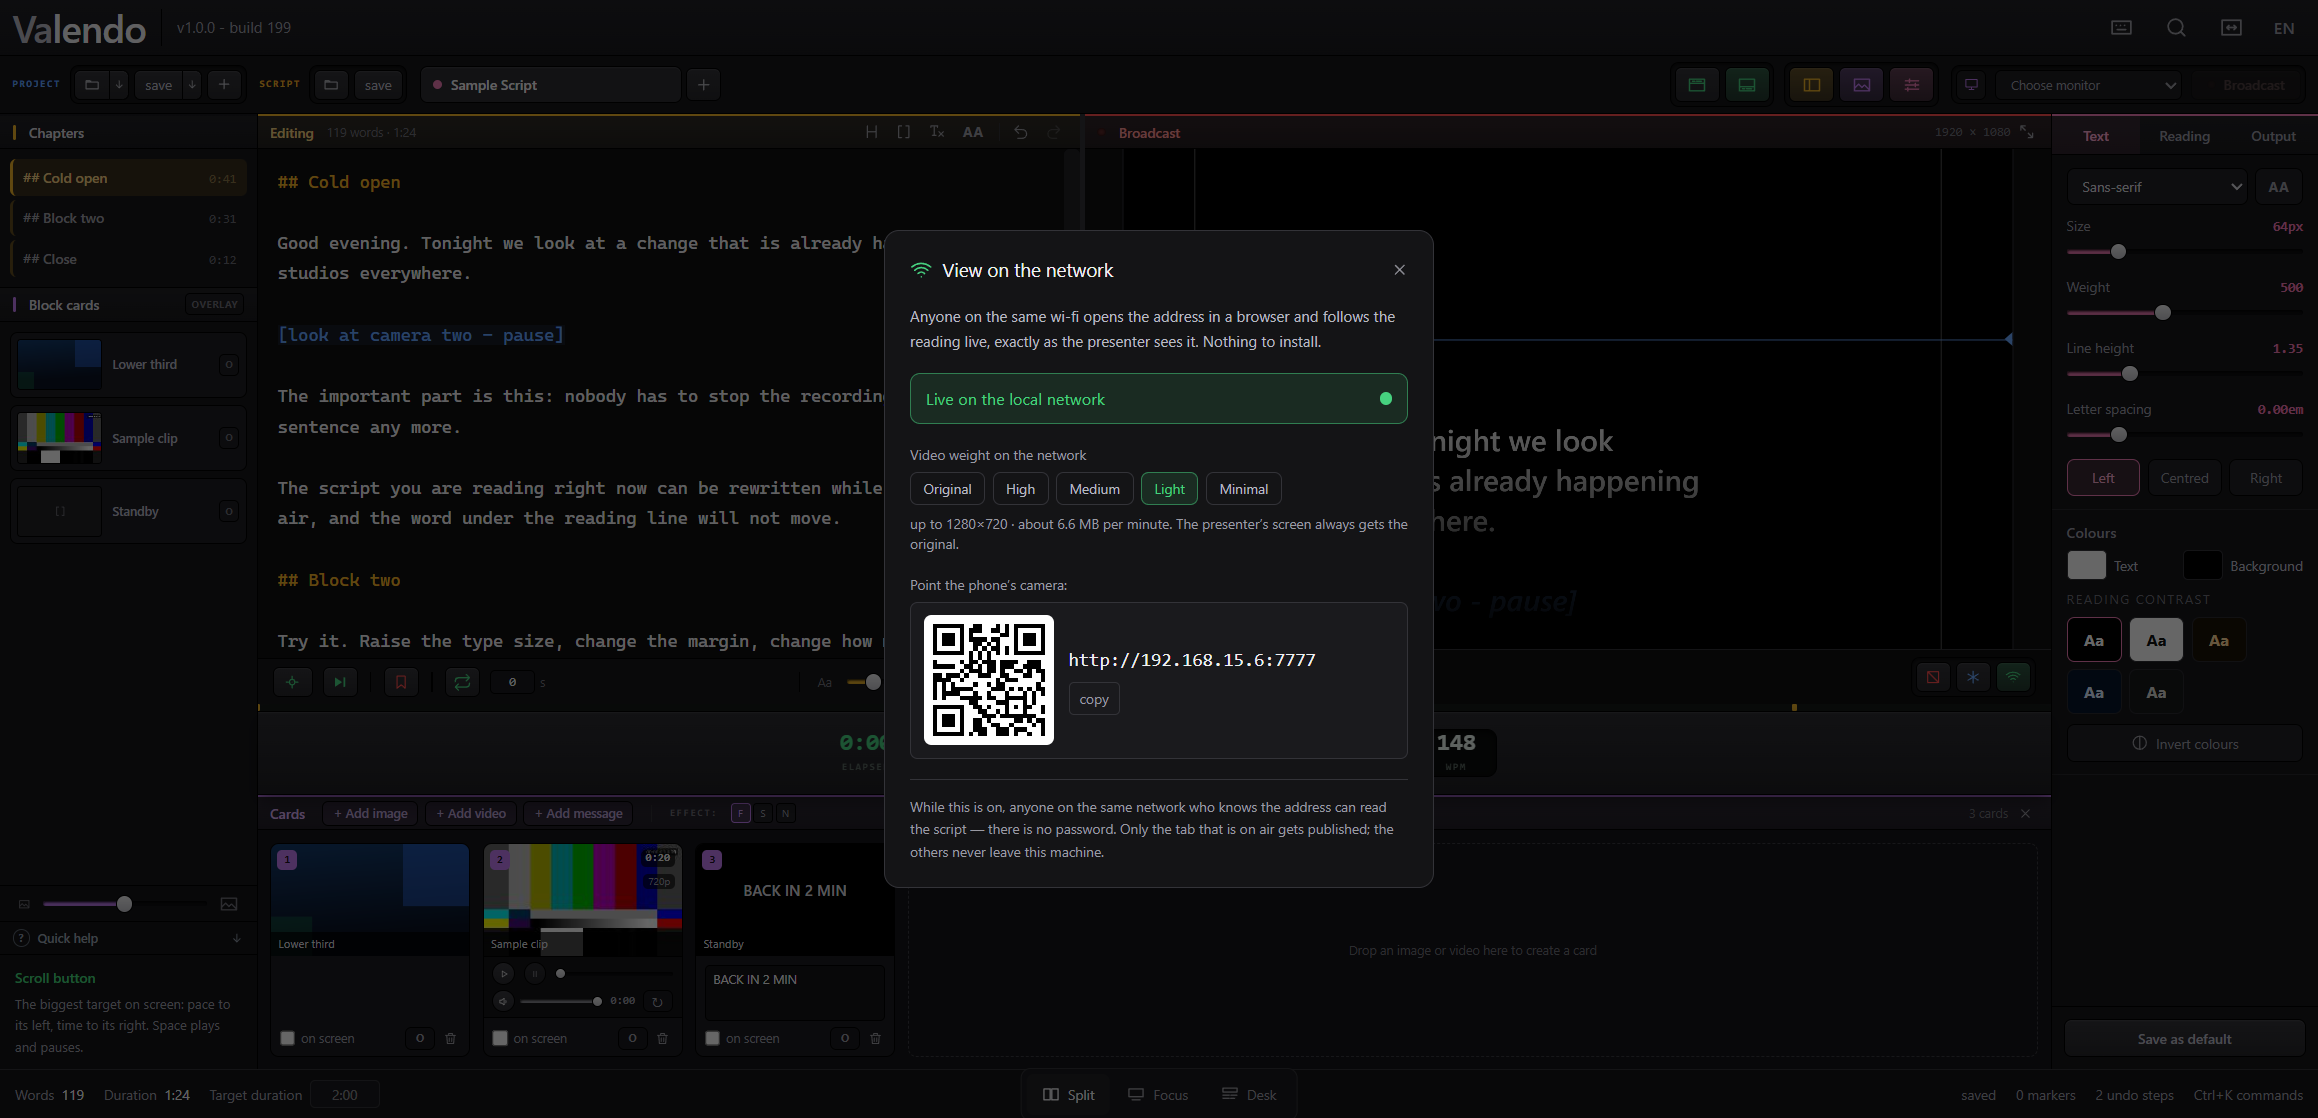
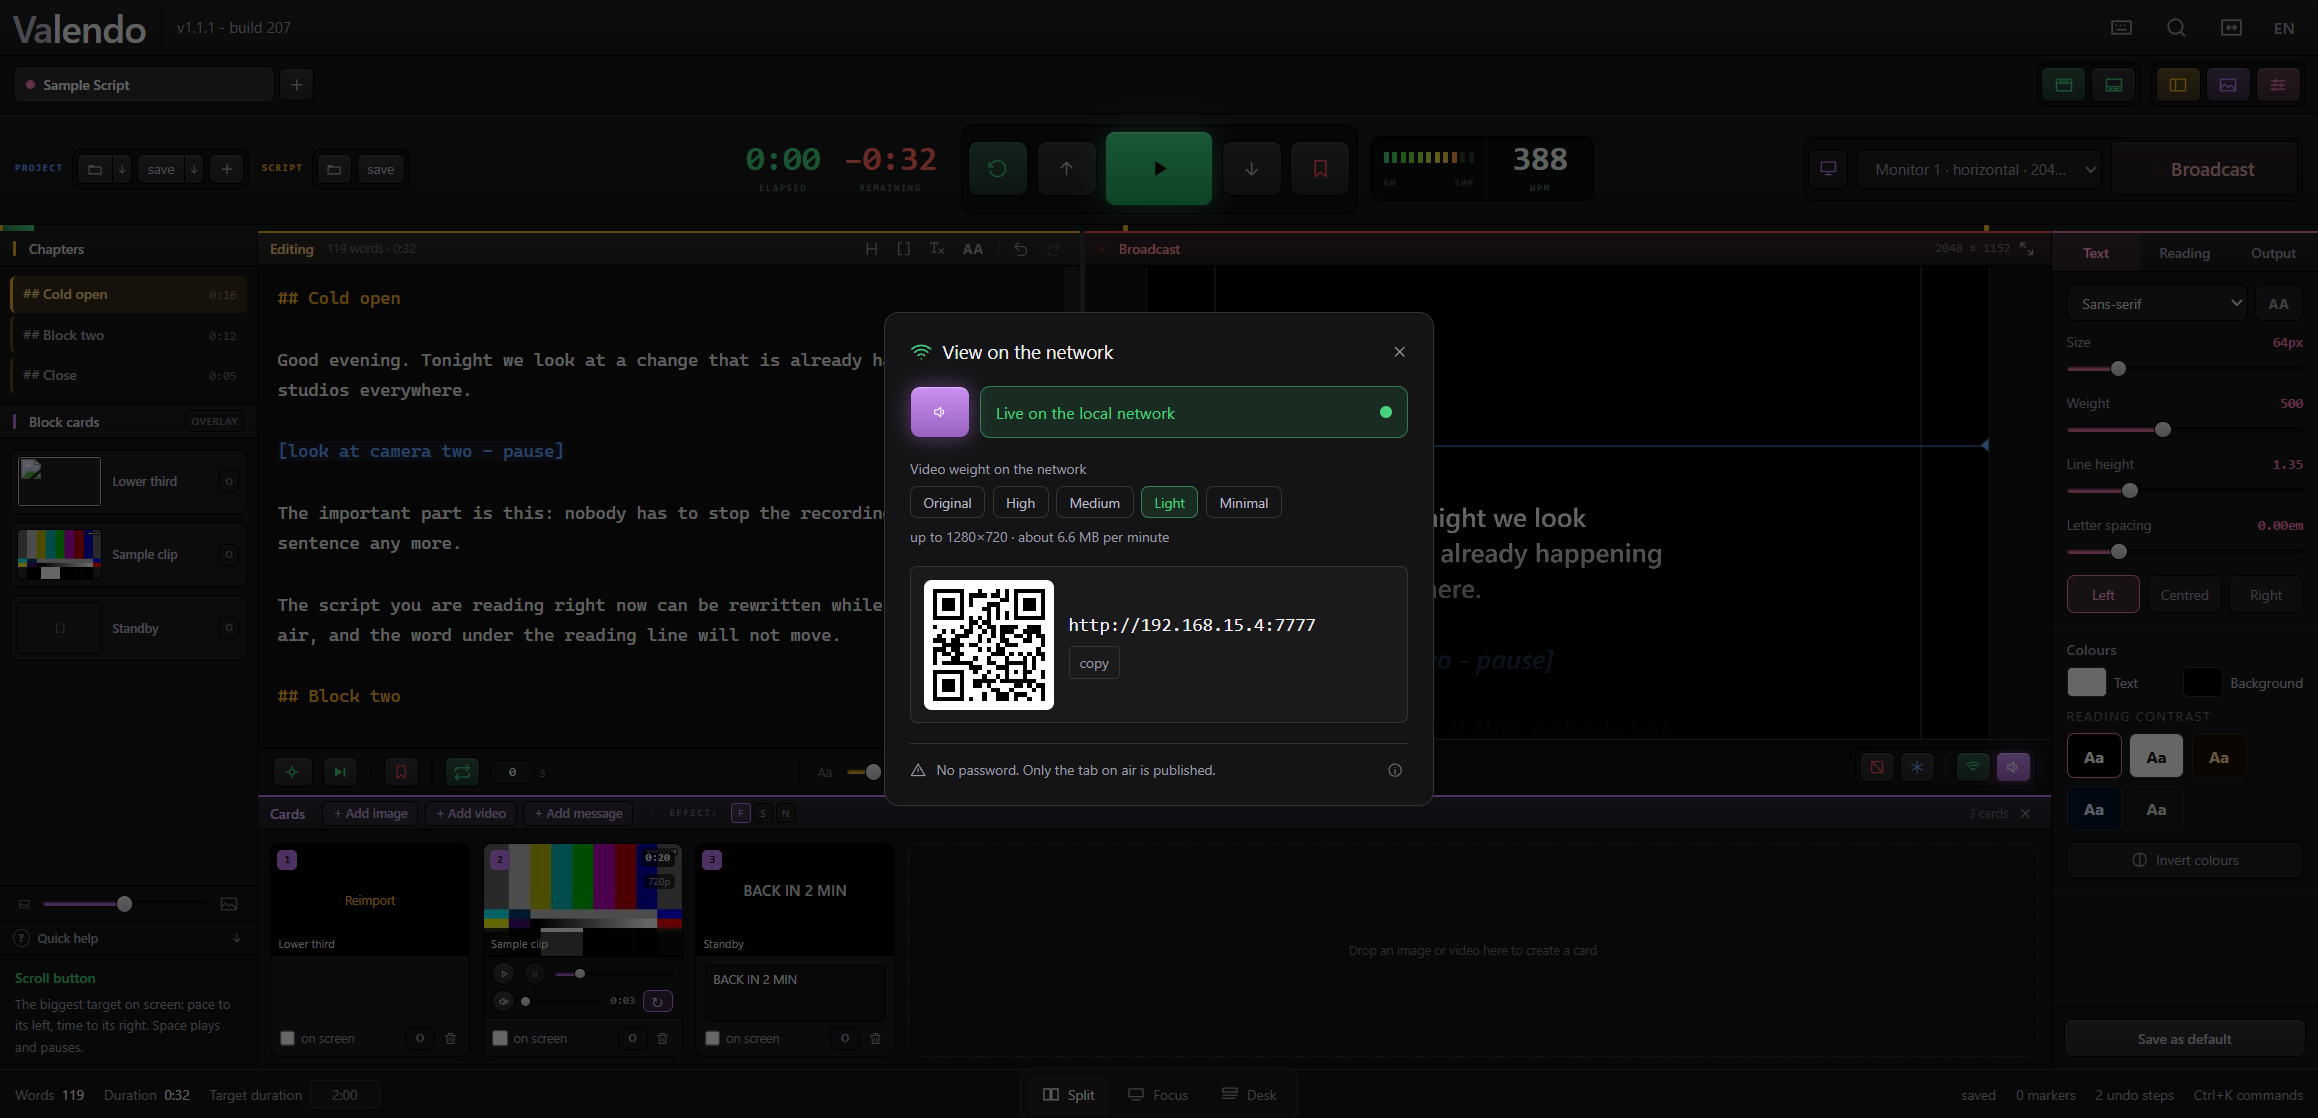
Divisor no poco AR, e a foto da rede refeita
O poco AR guarda duas familias: a esquerda o que age sobre a TELA do
apresentador (apagar, congelar), a direita o que age sobre a REDE. Sem uma
linha entre elas, as quatro teclas se liam como uma fila so de interruptores
sem parentesco.

O divisor usa `--color-line`, e nao `--color-edge`: edge e preto, e preto
sobre a cama escura do poco nao aparece — na primeira tentativa o divisor
existia no DOM e era invisivel na tela.

E a foto da modal no README e no site mostrava uma tela que nao existe mais:
1.270px de altura, com o paragrafo de abertura e o aviso por extenso, e sem a
tecla de audio. Refeita no estado atual.

Feito com Claude Code

diff --git a/src/renderer/src/operator/Toolbar.tsx b/src/renderer/src/operator/Toolbar.tsx
@@ -387,6 +387,13 @@ export function PocoDoAr({
       >
         <Icon name="freeze" size={13} />
       </Tecla>
+      {/* Divisor: à esquerda dele o que age sobre a TELA do apresentador
+          (apagar, congelar); à direita, o que age sobre a REDE. Duas famílias
+          no mesmo poço, e sem a linha as quatro teclas se liam como uma fila
+          só de interruptores sem parentesco. */}
+      {/* `--color-line`, e não `--color-edge`: edge é preto, e preto sobre a
+          cama escura do poço não aparece — o divisor sumia. */}
+      <span className="mx-1 h-4 w-px flex-none self-center bg-[var(--color-line)]" />
       {/* aceso pelo que está acontecendo, não pelo que foi pedido: com a porta
           ocupada, o verde diria que há uma página no ar quando não há */}
       <Tecla
